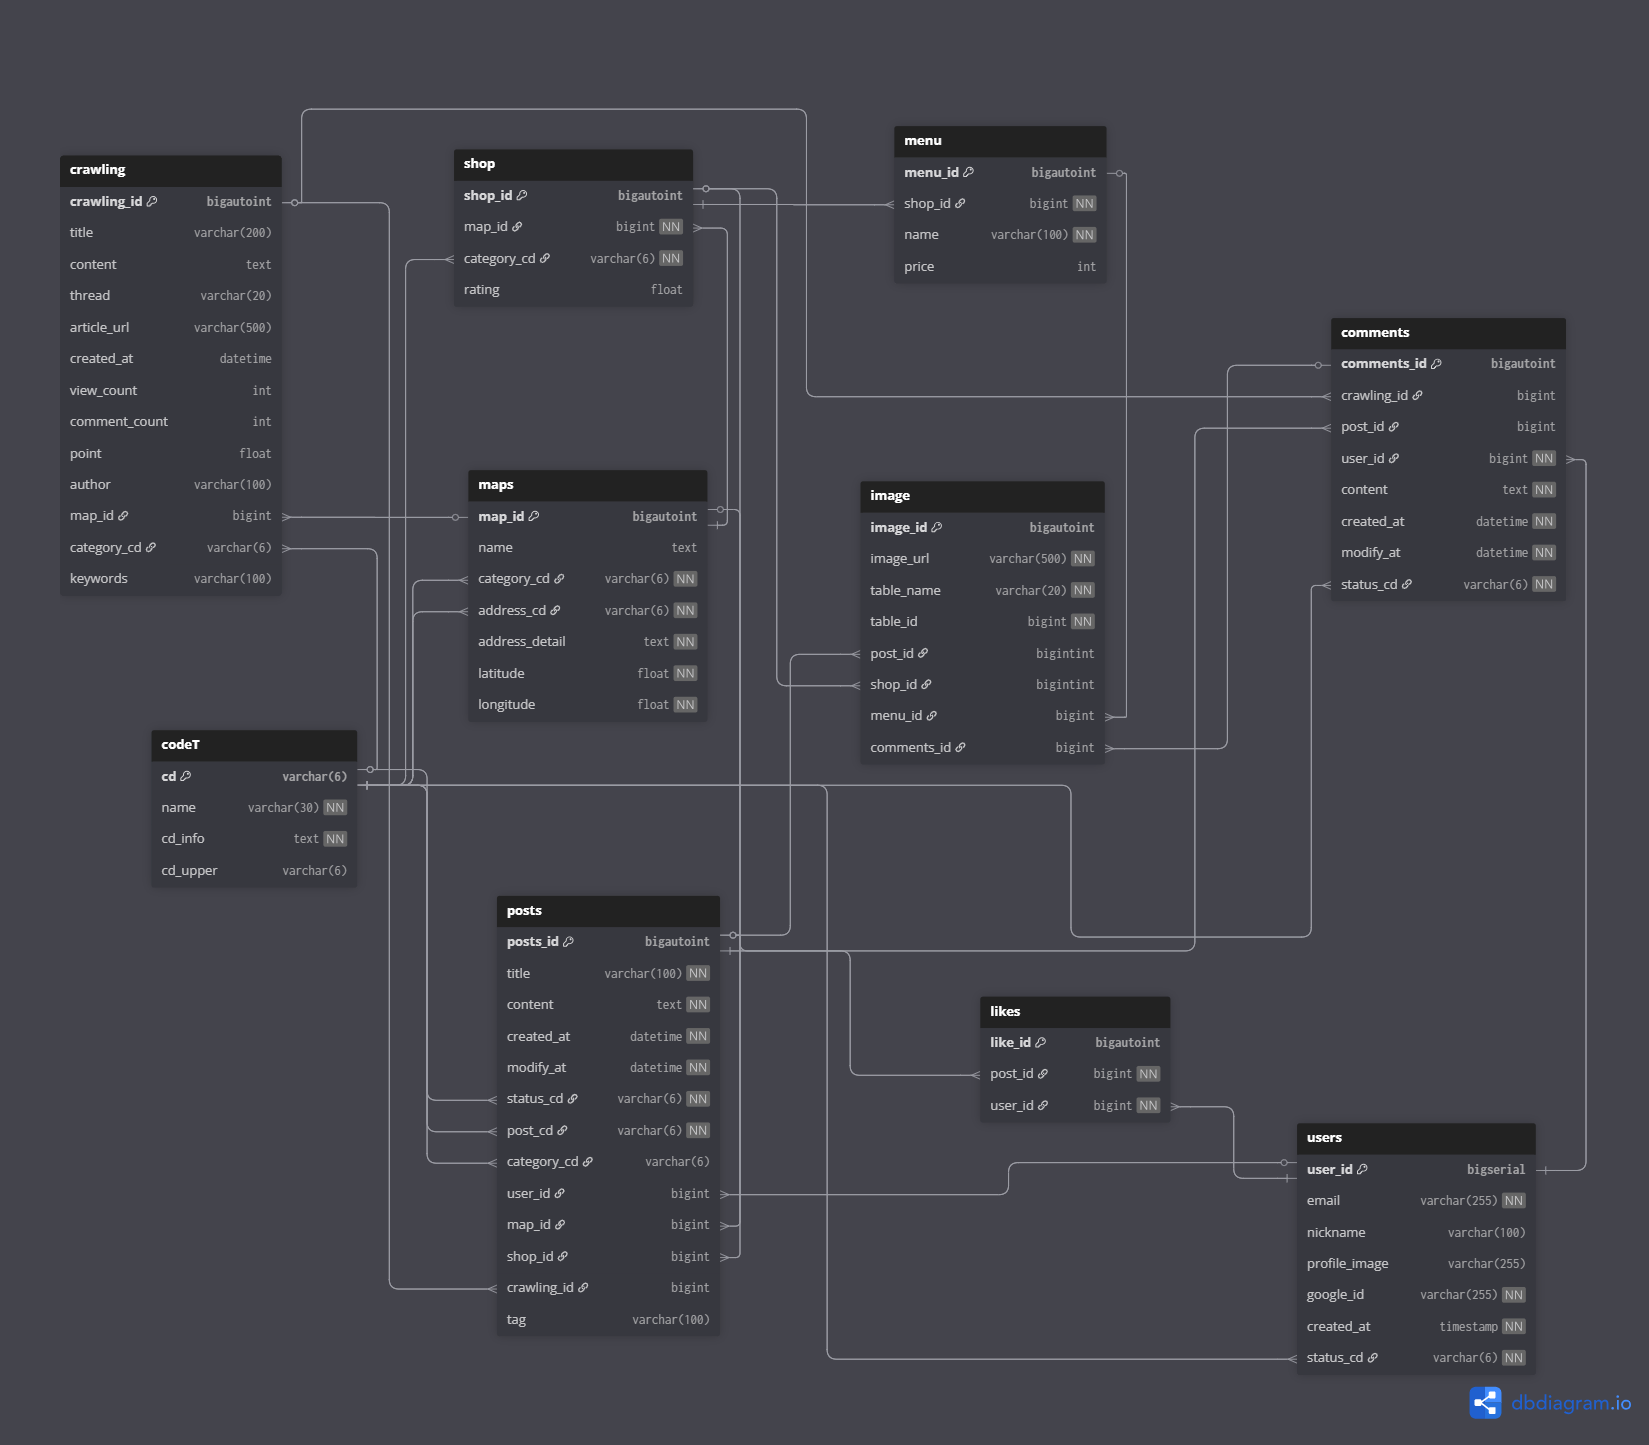
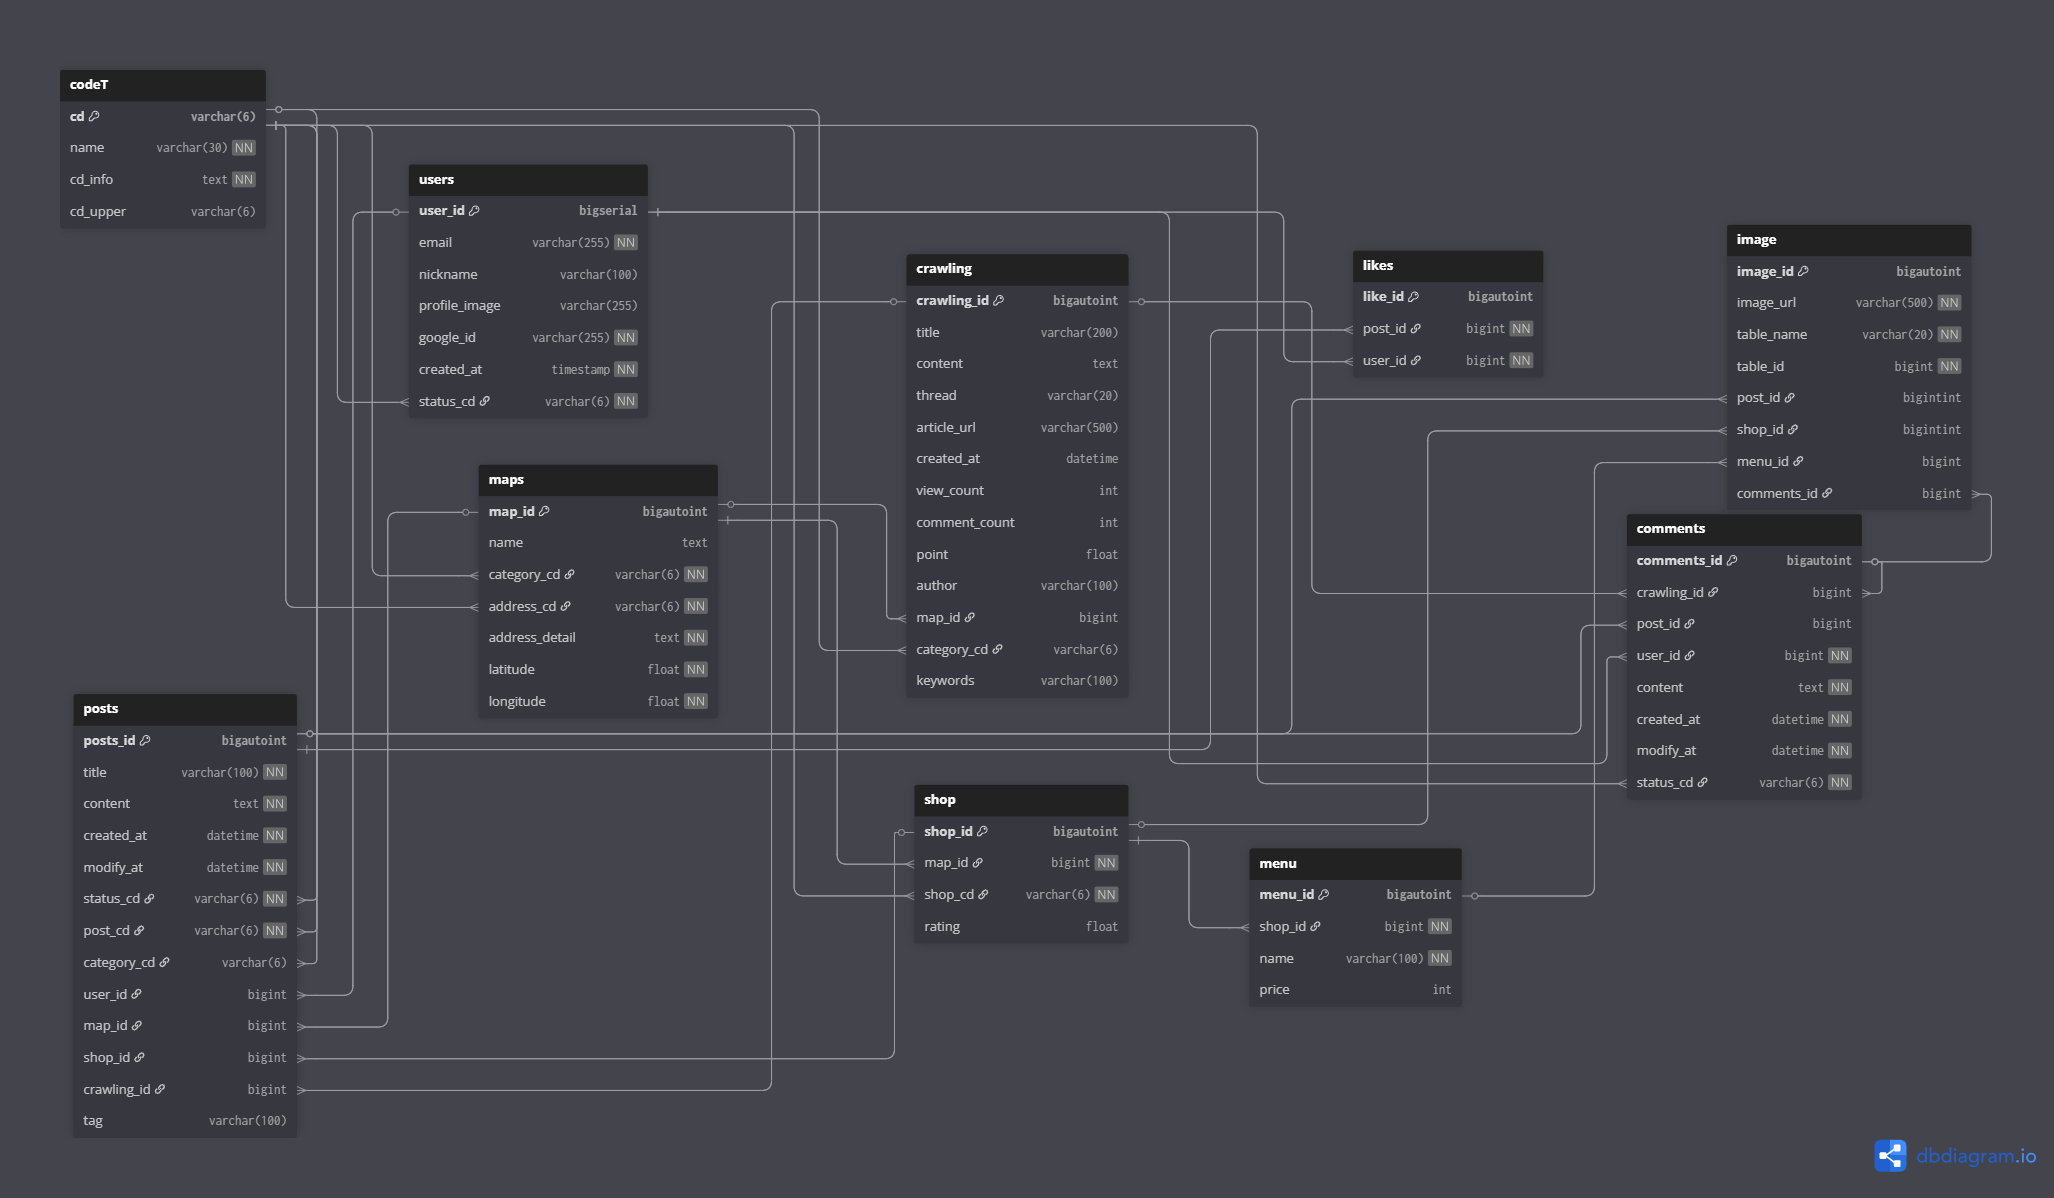
컬럼명 정리 (shop테이블의 category_cd > shop_cd)

diff --git a/backend/places/models.py b/backend/places/models.py
@@ -35,8 +35,8 @@ class Menu(models.Model):
 
 class Shop(models.Model):
     shop_id = models.BigAutoField(primary_key=True)
-    map = models.ForeignKey(Maps, null=False, on_delete=models.CASCADE, db_column='map_id')
-    category_cd = models.CharField(max_length=6, null=False)
+    map = models.ForeignKey('places.Maps', null=False, on_delete=models.CASCADE, db_column='map_id')
+    shop_cd = models.CharField(max_length=6, null=False)
     rating = models.FloatField(blank=True, null=True)
 
     class Meta:

diff --git a/ai/postmake_pipeline/llm.py b/ai/postmake_pipeline/llm.py
@@ -1,2 +1,3 @@
 # 게시글 생성
 
+#embedding
